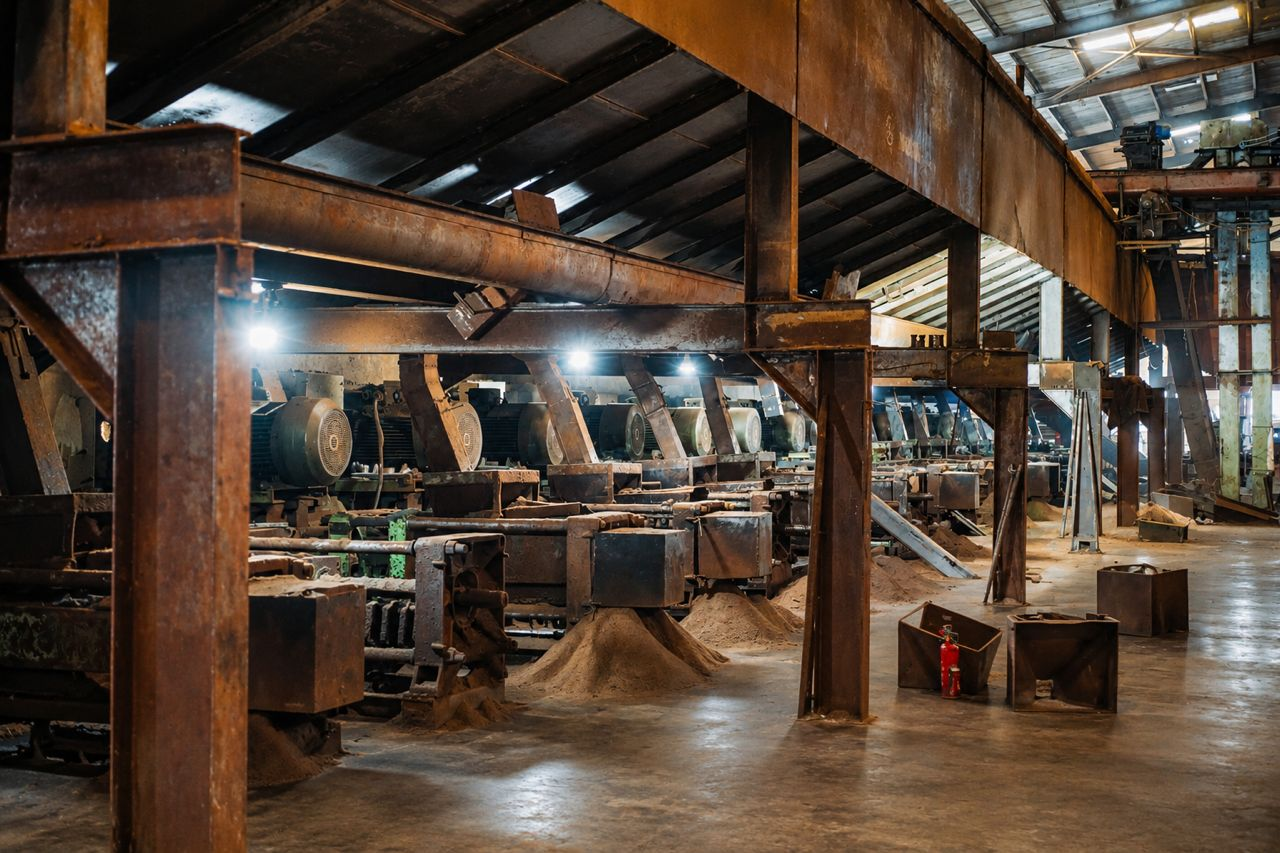
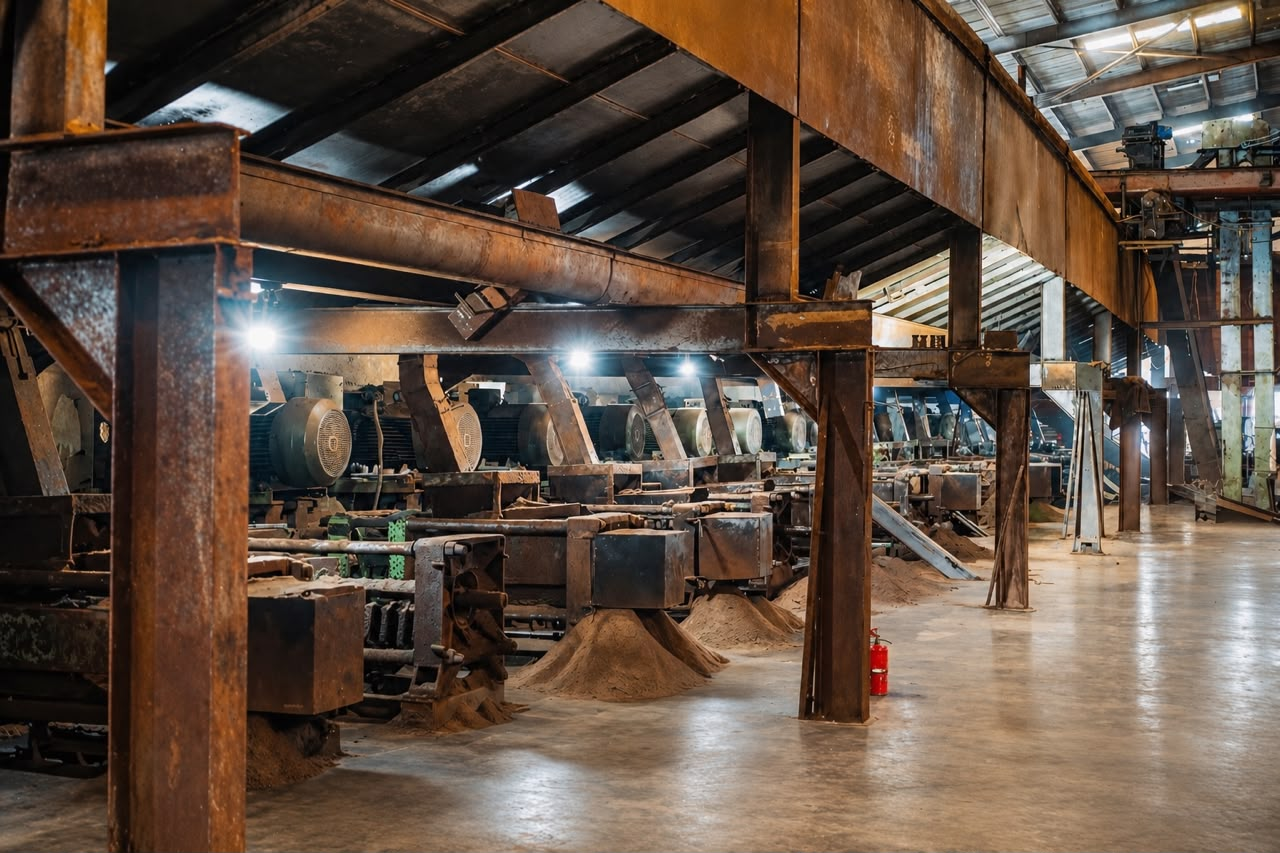
change

diff --git a/src/index.css b/src/index.css
@@ -1108,9 +1108,7 @@ lg:grid-cols-[1fr_1fr]
   }
 
   .business__overlay-content {
-    @apply px-7
-  pt-6
-  pb-2;
+    @apply px-7 pt-6 pb-2;
   }
 
   .business__overlay-content h3 {
@@ -1132,6 +1130,23 @@ lg:grid-cols-[1fr_1fr]
     transition: width 0.4s ease 0.1s;
   }
 
+  .business__card:hover .business__divider {
+    width: 70px;
+  }
+
+  /* DESCRIPTION — collapsed by default, grows upward on hover */
+
+  .business__desc {
+    display: grid;
+    grid-template-rows: 0fr;
+    transition: grid-template-rows 0.5s ease;
+  }
+
+  .business__desc > div {
+    overflow: hidden;
+    min-height: 0;
+  }
+
   .business__overlay-content p {
     font-family: var(--font-body);
 
@@ -1146,6 +1161,30 @@ lg:grid-cols-[1fr_1fr]
       transform 0.35s ease 0.1s;
   }
 
+  .business__card:hover .business__desc {
+    grid-template-rows: 1fr;
+  }
+
+  .business__card:hover .business__overlay-content p {
+    opacity: 1;
+    transform: translateY(0);
+  }
+
+  @media (max-width: 640px) {
+    .business__desc {
+      grid-template-rows: 1fr; /* always "open" on mobile, no hover needed */
+    }
+
+    .business__overlay-content p {
+      opacity: 1;
+      transform: translateY(0);
+
+      display: -webkit-box;
+      -webkit-line-clamp: 2;
+      -webkit-box-orient: vertical;
+      overflow: hidden;
+    }
+  }
   /* ───────── READ MORE BAR ───────── */
 
   /* ───────── READ MORE BAR ───────── */

diff --git a/src/Components/HomeComponents/BusinessSection.jsx b/src/Components/HomeComponents/BusinessSection.jsx
@@ -100,7 +100,11 @@ const BusinessSection = () => {
               <div className="business__overlay-content">
                 <h3>{item.title}</h3>
                 <div className="business__divider" />
-                <p>{item.description}</p>
+                <div className="business__desc">
+                  <div>
+                    <p>{item.description}</p>
+                  </div>
+                </div>
               </div>
               {item.link ? (
                 <Link to={item.link} className="business__read-more">

diff --git a/src/Pages/About.jsx b/src/Pages/About.jsx
@@ -20,7 +20,7 @@ const aboutSections = [
 
     extra: `From the oil used in homes and businesses, to the soap used for bathing, laundry and cleaning, to the jerrycans that package and protect liquid products, and the wood products that support construction, furniture, and commercial use – Zitelle Group serves practical needs across multiple parts of the market. `,
 
-    image: "/zitelle/aboutpage1.jpg",
+    image: "/zitelle/about_hero.jpeg",
   },
 
   {

diff --git a/src/Pages/Career.jsx b/src/Pages/Career.jsx
@@ -15,7 +15,7 @@ const careerSections = [
 
     extra: ` `,
 
-    image: "/zitelle/forklift.jpg",
+    image: "/zitelle/career.jpeg",
   },
 ];
 